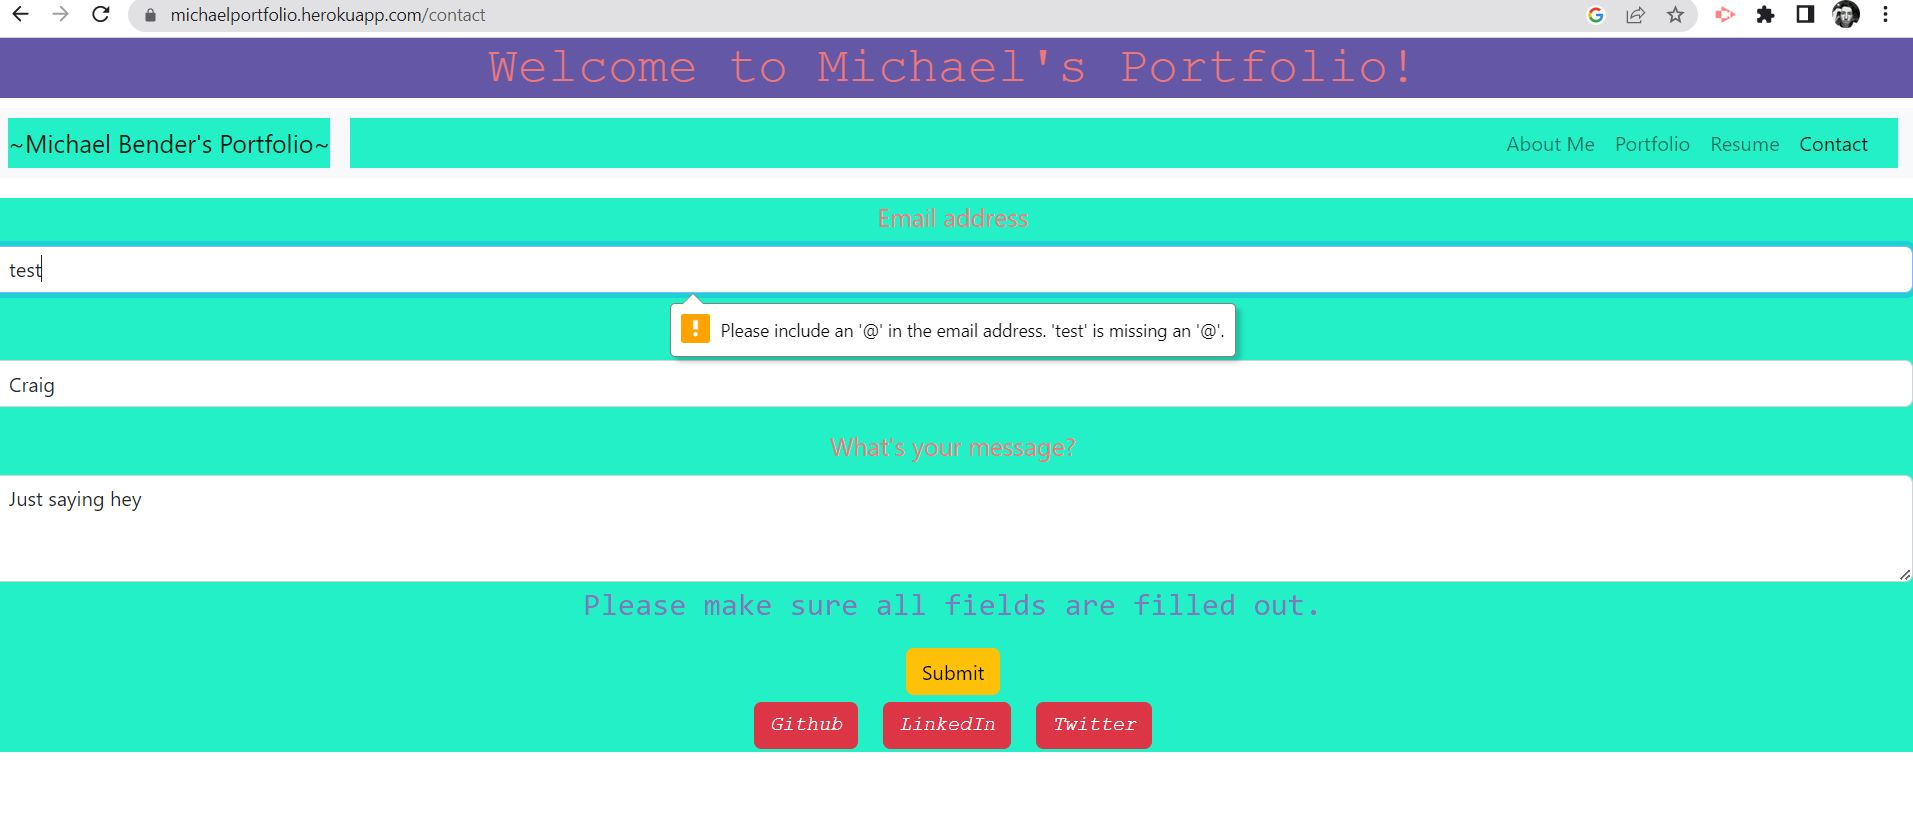
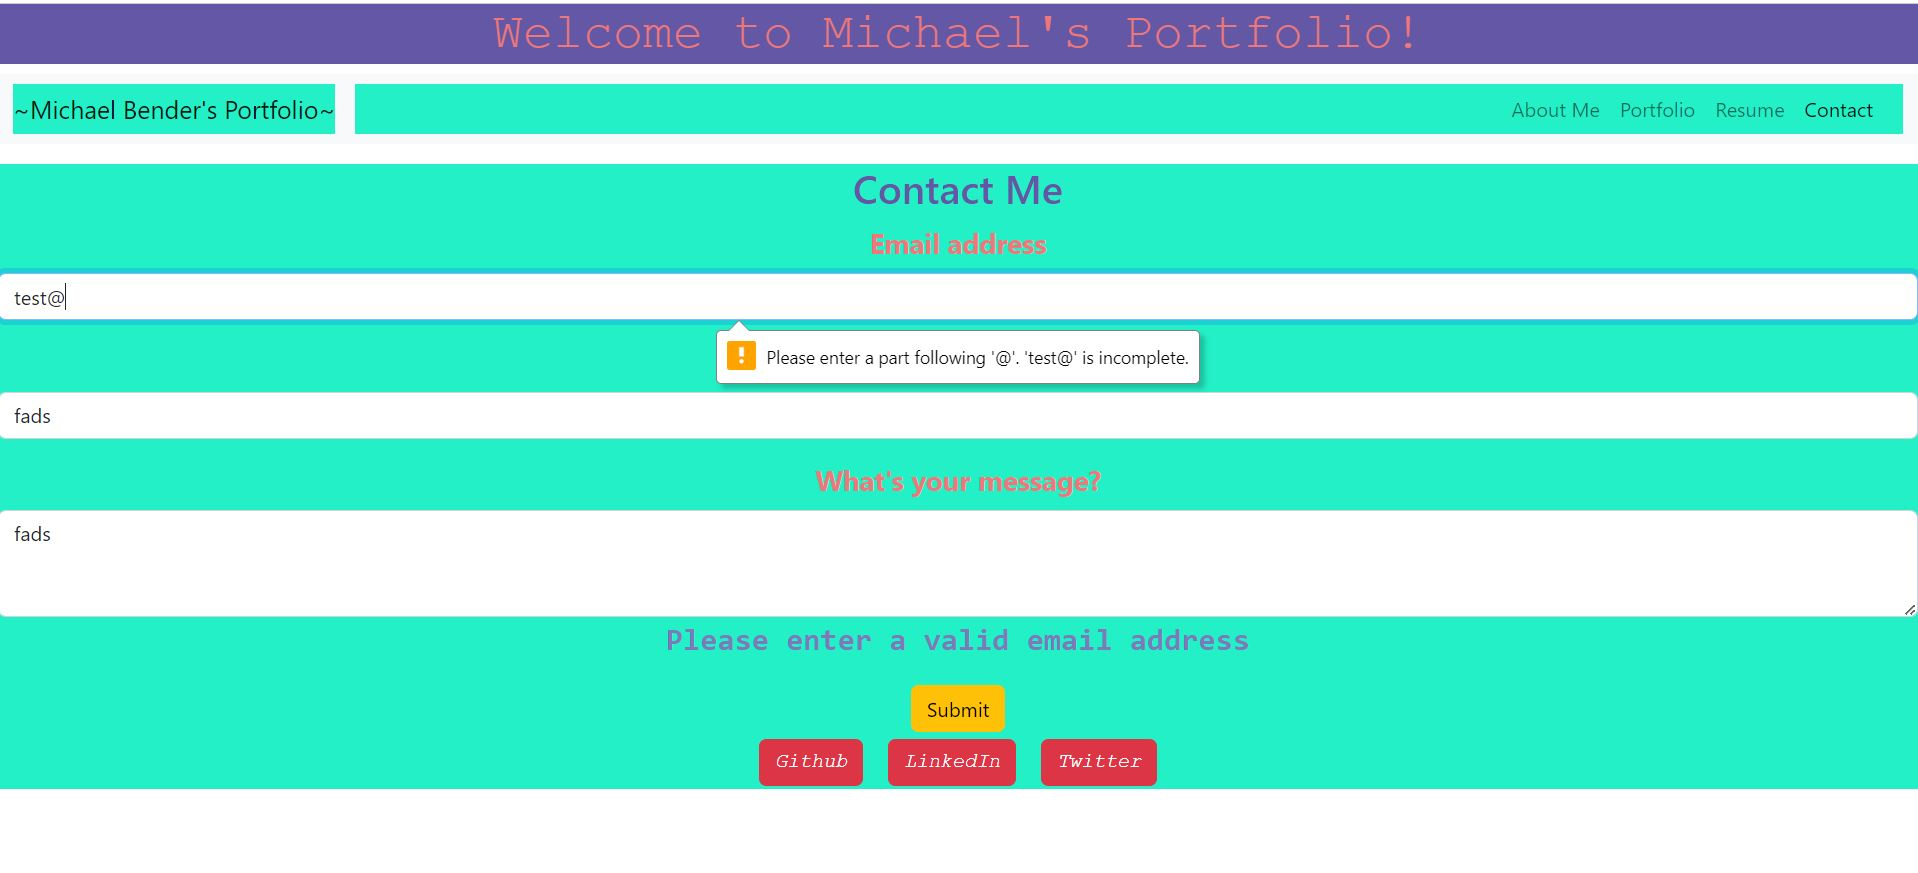
fixing screenshots

diff --git a/src/Pages/Aboutme.js b/src/Pages/Aboutme.js
@@ -11,7 +11,7 @@ function Aboutme() {
     <section className="card aboutme">
       <div className="text-center ">
         <h2>About Me</h2>
-        <p>
+        <p className="aboutMe3">
           I began coding in 2022 and have been able to attend a UCI bootcamp
           that allowed me to gain some skills in web development. Thanks to this
           bootcamp I have been able to learn and create several applications. I 

diff --git a/src/Pages/Resume.js b/src/Pages/Resume.js
@@ -7,8 +7,9 @@ function Resume() {
   return (
     <div className="cards resume flex col-auto mb-3 ">
       <Card style={{ width: "18rem" }} className="resume">
+        <h2>Resume</h2>
         <Card.Body>
-          <Card.Title><h2>Proficiencies</h2></Card.Title>
+          <Card.Title><h3>Proficiencies</h3></Card.Title>
           <Card.Text className="resume1">
             {/* <ul> */}
             <li>HTML</li>

diff --git a/src/Pages/Project.js b/src/Pages/Project.js
@@ -65,6 +65,7 @@ function Project() {
 
   return (
     <div>
+        <h2>Portfolio</h2>
       <div className="cards project flex col-auto mb-3 ">
         {works.map((work, idx) => (
           <Card className="myWork" style={{ width: "18rem" }}>

diff --git a/src/Pages/Contact.js b/src/Pages/Contact.js
@@ -31,6 +31,7 @@ function Contact() {
 
   return (
     <div className="contactForm">
+      <h2>Contact Me</h2>
       {isSubmitted ? (
         <h2>
           I appreciate you reaching out to me, I will respond when I have a

diff --git a/src/App.css b/src/App.css
@@ -149,6 +149,13 @@ footer {
 
 h2 {
   color: #6457a6;
+  text-align: center;
+}
+
+.aboutMe3 {
+  background-color: #23f0c7;
+  font-size: 21px;
+  font-weight:700;
 }
 
 .card1 {

diff --git a/README.md b/README.md
@@ -98,5 +98,5 @@ GIVEN a single-page application portfolio for a web developer
 
 ![Contact email error Page](./src/images/contactErrEmail.JPG)
 
-![Contact email error 2 Page](./src/images/contactErrEmail2.JPG)
+![Contact submit Page](./src/images/contactSubmit.JPG)
 
